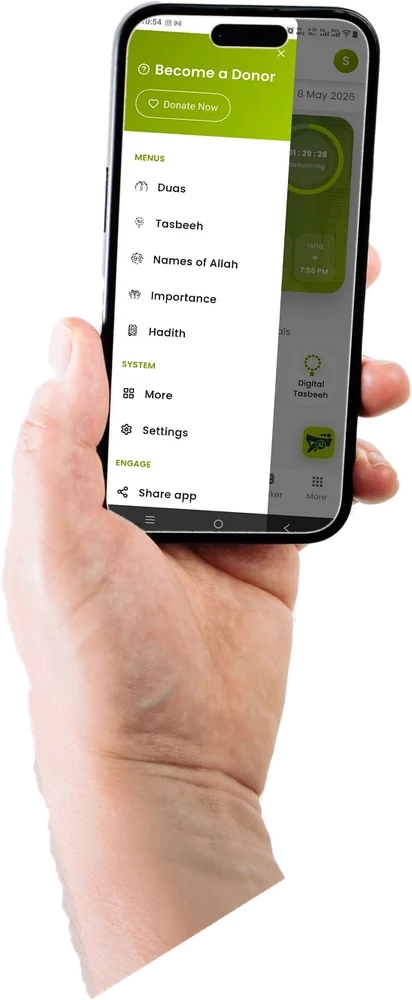
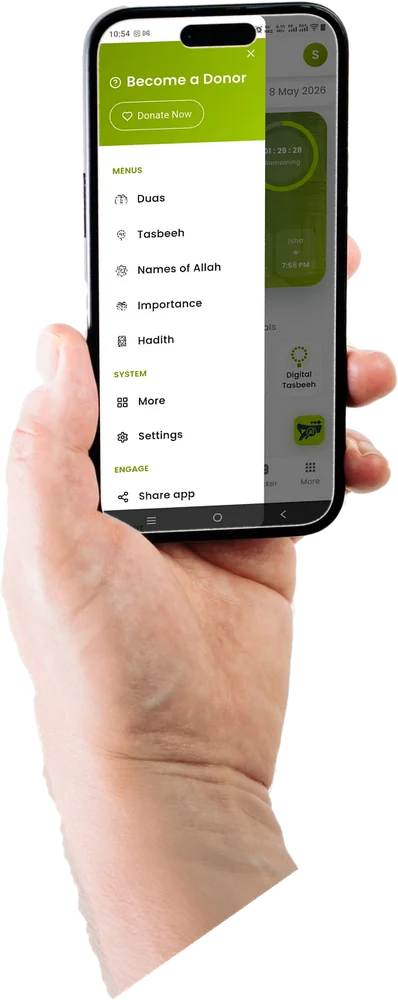
Support phone: fit true screen perspective and rotate fully upright so the screen is straight

diff --git a/src/App.tsx b/src/App.tsx
@@ -275,7 +275,7 @@ const PhoneShowcase = ({ screens, className = "" }: { screens: string[]; classNa
 // Real photo of a hand holding a phone (app screenshot composited on the screen) in a soft green arch with real leaf photos.
 // Several screens crossfade; one stays still.
 const PhotoPhone = ({ src, className = "" }: { src: string; className?: string }) => (
-  <div className={`relative aspect-[412/1000] ${className}`}>
+  <div className={`relative aspect-[398/1000] ${className}`}>
     <div className="absolute -inset-x-[35%] inset-y-[10%] rounded-full bg-primary/20 blur-3xl" />
     <img
       src={src}
